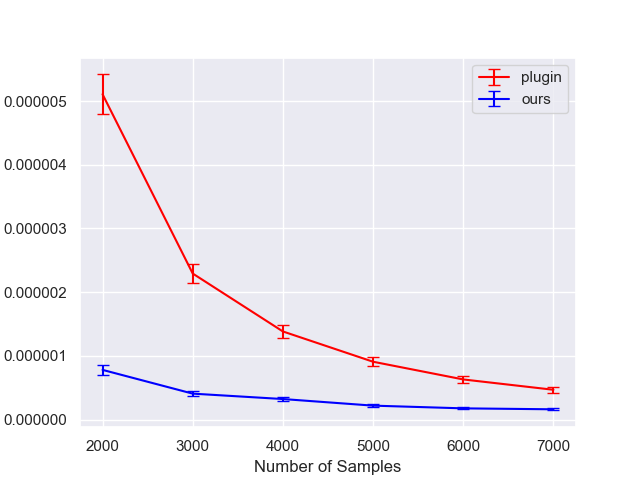
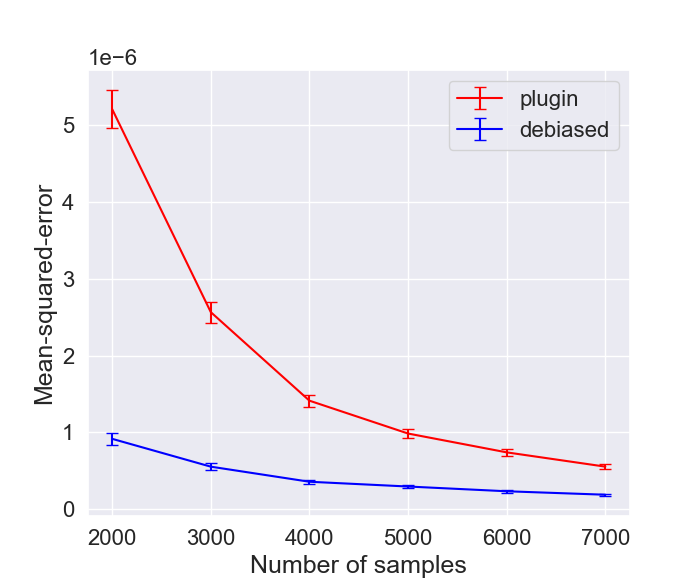
Updates images and proof

diff --git a/appendix_calibrating_models.tex b/appendix_calibrating_models.tex
@@ -4,15 +4,18 @@
 
 \newcommand{\G}[0]{\ensuremath{\mathcal{G}}}
 
-Our analysis of the sample complexity of \ourcal{} requires some assumptions on the function family $\G{}$ that hold for standard methods like Platt scaling, beta calibration, and vector scaling (since vector scaling calibrates each class separately):
+Our analysis of the sample complexity of \ourcal{} requires some assumptions on the function family $\G{}$:
 
 \begin{enumerate}
-\item (Finite bounded parameters). Let $\G{} = \{ g_{\theta} : \mathcal{Z} \to [0, 1] \; | \; \theta \in \mathbb{R}^{d'} \wedge ||\theta||_{\infty} \leq R \}$
+\item (Finite parameters). Let $\G{} = \{ g_{\theta} : \mathcal{Z} \to [0, 1] \; | \; \theta \in A \}$ where $A \subseteq \mathbb{R}^{d'}$ and $A$ is open.
 \item (Injective). For all $g_{\theta} \in \G{}$ we assume $g_{\theta}$ is injective.
-\item (Lipschitz). Suppose that for all $z \in \mbox{supp}(Z)$, $|g_{\theta_1}(z) - g_{\theta_2}(z)| \leq L|\theta_1 - \theta_2|_2$.
+\item (Consistency) Intuitively, consistency means that given infinite data, the estimated parameters should converge to the unique optimal parameters in $A$.
+More formally, suppose $\theta_0 = \argmin_{\theta \in A} \mbox{MSE}(g_{\theta})$.
+Then the parameters $\hat{\theta}_n$ estimated by minimizing the empirical MSE with $n$ samples in step 1 of the algorithm, converges in distribution to $\theta_0$, that is, $\hat{\theta}_n \to_D \theta_0$ as $n \to \infty$. Note that consistency inherently assumes identifiability, that there is a unique minimizer $\theta_0$ in the open set $A$.
+\item (Regularity). We assume that regularity conditions in Theorem 5.23 of~\cite{vaart98asymptotic} hold, which require the loss to be twice differentiable with continuous and non-singular Hessian, and that $g_{\theta}(x)$ is Lipschitz in $\theta$ for all $x$.
 \end{enumerate}
 
-If $\G{}$ satisfies the following assumptions we say $\G{}$ is $(d', L, R)$-compatible. For Platt-scaling $d' = 1$ and $L$ and $R$ are typically small constants.
+We assume that $\G{}$ satisfies these assumptions in the rest of this section.
 
 % We first need to introduce the Bayes optimal recalibrator $\omega^*$, which we compare all other recalibrators to. $\omega^* \circ f$ has calibration error $0$, and also has the minimum mean-squared error among all recalibrators.
 
@@ -33,27 +36,7 @@ Step 2 is where we construct a binning scheme so that each bin has an equal numb
 This is important as well, particularly to ensure we can estimate the calibration error.
 Step 1 is a simple adaptation of a standard result from learning theory.
 
-We first show a generalization result for Step 1 of our approach---recall that step 1 is essentially Platt scaling.
-That is, if $\G{}$ is $(d', L, R)$-compatible and contains $g^* \in \G{}$ with low calibration error, then we show that the empirical risk minimizer $g \in \G{}$ of the mean-squared loss will also quickly converge to low calibration error.
-Intuitively, methods like Platt scaling fit a single parameter to the data so classical learning theory bounds tell us they will converge quickly to their optimal error, at least in mean-squared error.
-We can combine this with a decomposition of the mean-squared error into calibration and refinement, and the injectivity of $g \in \mathcal{G}$, to show they also converge in calibration error.
-
-\begin{lemma}[Convergence of Platt scaling]
-\label{lem:platt_scaling_bound}
-There exists a constant $c$, independent of $d', L, n$ such that with high probability over the recalibration samples $\squaredce(g) \leq \min_{g' \in \G{}}\squaredce(g') + \frac{cLd' \log{R}}{\sqrt{n}}$, where recall that $g \in \G{}$ was selected as the empirical risk minimizer of the mean-squared error loss.
-\end{lemma}
-
-\begin{proof}
-We use the classic decomposition of the mean-squared error into calibration error (also known as reliability) and refinement\footnote{Note that the refinement term can be further decomposed into resolution (also known as sharpness) and irreducible uncertainty.}. For any $g \in \G{}$ we have:
-\[ \mbox{MSE}(g) = \underbrace{\squaredce(g)}_{\mbox{calibration}} + \underbrace{\expect[(\expect[Y \mid g(Z)] - Y)^2]}_{\mbox{refinement}} \]
-Note that the refinement term is constant for all injective $g \in \G{}$, since for injective $g$:
-\[ \expect[(\expect[Y \mid g(Z)] - Y)^2] = \expect[(\expect[Y \mid Z] - Y)^2] \]
-This means that the difference in $\mbox{MSE}$ between any $g$ and $g'$ is precisely the difference in the mean-squared error. From a standard $\epsilon$-cover in the parameter space, or PAC-Bayes argument, we can get a high probability generalization bound on the mean-squared error:
-\[ \mbox{MSE}(g) \leq \mbox{MSE}(g^*) + \frac{cLd' \log{R}}{\sqrt{n}} \]
-This gives us the desired result.
-\end{proof}
-
-Our next lemma will require showing convergence in $\ell_2$ and $\ell_1$ norm in function space, which we define below:
+\textbf{Step 3}: Our proofs will require showing convergence in $\ell_2$ and $\ell_1$ norm in function space, which we define below:
 
 \begin{definition}[Distances between functions]
 Given $f, g : \mathcal{Z} \to [0, 1]$, for the $\ell_2$ norm we define $||f - g||_2^2 = \expect[(f(Z) - g(Z))^2]$ and $||f- g||_2 = \sqrt{||f - g||_2^2}$. For the $\ell_1$ norm we define $||f - g||_1 = \expect[\lvert f(Z) - g(Z)\rvert]$
@@ -110,11 +93,11 @@ Similarly, we can also bound the $\ell_1$-error. Here we also use the fact that 
 By union bound, these hold with probability at least $1 - \delta$, which completes the proof.
 \end{proof}
 
-In our proofs we also required that the binning scheme we constructed was 2-well-balanced.
+\textbf{Step 2}: Recall that we chose our bins so that each bin had an equal proportion of points in the recalibration set. In our proofs we required that this property (approximately) holds in the population as well. The following lemma shows this.
 
 \begin{lemma}[Well-balanced on population]
 \label{lem:well-balanced}
-If $n \geq \Omega(B \log{\frac{B}{\delta}})$ then the binning scheme $\bins{}$ we construct in step 2 of our algorithm is 2-well-balanced.
+There exists a universal constant $c$ such that if $n \geq c \big( B \log{\frac{B}{\delta}} \big)$ then the binning scheme $\bins{}$ we construct in step 2 of our algorithm is 2-well-balanced with probability at least $1 - \delta$.
 \end{lemma}
 
 \begin{proof}
@@ -143,30 +126,56 @@ Since in our case for all $j$, $\hat{P}(I_j) = \frac{1}{B}$, this gives us:
 \[ \frac{1}{2B} \leq P(I_j) \leq \frac{2}{B} \]
 \end{proof}
 
+\textbf{Step 1}: Recall that step 1 essentially applies a scaling method---we fit a small number of parameters to the recalibration data.
+We show that if $\G{}$ contains $g^* \in \G{}$ with low calibration error, then the empirical risk minimizer $g \in \G{}$ of the mean-squared loss will also quickly converge to low calibration error.
+Intuitively, methods like Platt scaling fit a single parameter to the data so standard results in asymptotic statistics tell us they will converge quickly to their optimal error, at least in mean-squared error.
+We can combine this with a decomposition of the mean-squared error into calibration and refinement, and the injectivity of $g \in \mathcal{G}$, to show they also converge quickly in calibration error.
+
+\begin{lemma}[Convergence of Platt scaling]
+\label{lem:platt_scaling_bound}
+Given $\delta$, there exists a constant $c$, such that for all $n$, $\squaredce(g) \leq \min_{g' \in \G{}}\squaredce(g') + \frac{c}{n}$, with probability at least $1 - \delta$.
+% independent of $d', L, n$ such that with high probability over the recalibration samples $\squaredce(g) \leq \min_{g' \in \G{}}\squaredce(g') + \frac{cLd' \log{R}}{\sqrt{n}}$, where recall that $g \in \G{}$ was selected as the empirical risk minimizer of the mean-squared error loss.
+\end{lemma}
+
+\begin{proof}
+We use the classic decomposition of the mean-squared error into calibration error (also known as reliability) and refinement\footnote{Note that the refinement term can be further decomposed into resolution (also known as sharpness) and irreducible uncertainty.}. For any $g \in \G{}$ we have:
+\[ \mbox{MSE}(g) = \underbrace{\squaredce(g)}_{\mbox{calibration}} + \underbrace{\expect[(\expect[Y \mid g(Z)] - Y)^2]}_{\mbox{refinement}} \]
+Note that the refinement term is constant for all injective $g \in \G{}$, since for injective $g$:
+\[ \expect[(\expect[Y \mid g(Z)] - Y)^2] = \expect[(\expect[Y \mid Z] - Y)^2] \]
+This means that the difference in $\mbox{MSE}$ between any $g$ and $g'$ is precisely the difference in the mean-squared error. From a standard $\epsilon$-cover in the parameter space, or PAC-Bayes argument, we can get a high probability generalization bound on the mean-squared error:
+\[ \mbox{MSE}(g) \leq \mbox{MSE}(g^*) + \frac{cLd' \log{R}}{\sqrt{n}} \]
+This gives us the desired result.
+\end{proof}
+
 Finally, we have the tools to prove the main theorem:
 
 \begin{proof}[Proof of Theorem~\ref{thm:final-calib}]
 The proof pieces together Lemmas~\ref{lem:platt_scaling_bound},~\ref{thm:empirical-binning},~\ref{lem:well-balanced} and Proposition~\ref{prop:bin_low_bound}.
 
-If $n = \Theta(\frac{(L'd'\log{R})^2}{\epsilon^2})$, from Lemma~\ref{lem:platt_scaling_bound}, step 1 of the variance-reduced calibration algorithm gives us $g$ with $\squaredce(g) \leq c_0^2 \epsilon^2$ for constant $c_0 > 1$.
+For any fixed $c_1 > 0$, there exists $c_1'$ such that if $n \geq c_1'\big(\frac{1}{\epsilon^2}\big)$, from Lemma~\ref{lem:platt_scaling_bound}, step 1 of the variance-reduced calibration algorithm gives us $g$ with $\squaredce(g) \leq \min_{g' \in \G{}}\squaredce(g') + c_1 \epsilon^2$, with probability at least $1 - \frac{\delta}{3}$.
 
-Next if $n = \Theta(B \log{\frac{B}{\delta}})$, from Lemma~\ref{lem:well-balanced}, step 2 chooses a 2-well-balanced binning scheme $\bins{}$.
+Next, for universal constant $c_2$, if $n \geq c_2(B \log{\frac{B}{\delta}})$, from Lemma~\ref{lem:well-balanced}, step 2 chooses a 2-well-balanced binning scheme $\bins{}$ with probability at least $1 - \frac{\delta}{3}$.
 
-From Proposition~\ref{prop:bin_low_bound}, $\ltwoce(g_{\bins{}}) \leq \ltwoce(g) \leq c_0 \epsilon$. Then from Lemma~\ref{thm:empirical-binning}, if $n = \frac{1}{\epsilon^2} \log{\frac{B}{\delta}}$, step 3 gives us $\hat{g_{\bins{}}}$ with $||\hat{g_{\bins{}}} - g_{\bins{}}||_2 \leq c_1 \epsilon$ for constant $c_1 > 0$. We want to say that since $\hat{g_{\bins{}}}$ is close to $g_{\bins{}}$ and $g_{\bins{}}$ has low calibration error, this must mean that $\hat{g_{\bins{}}}$ has low calibration error.
+From Proposition~\ref{prop:bin_low_bound}, $\squaredce(g_{\bins{}}) \leq \squaredce(g) \leq \min_{g' \in \G{}}\squaredce(g') + c_1 \epsilon^2$. Then from Lemma~\ref{thm:empirical-binning}, for any $c_3 > 0$, there exists $c_3'$ such that if $n \geq c_3'\big(\frac{1}{\epsilon^2} \log{\frac{B}{\delta}}\big)$, step 3 gives us $\hat{g_{\bins{}}}$ with $||\hat{g_{\bins{}}} - g_{\bins{}}||_2 \leq c_3 \epsilon$ with probability at least $1 - \frac{\delta}{3}$. We want to say that since $\hat{g_{\bins{}}}$ is close to $g_{\bins{}}$ and $g_{\bins{}}$ has low calibration error, this must mean that $\hat{g_{\bins{}}}$ has low calibration error.
 
 To do this we represent the $\ell_2$ calibration error of any $g$ as the distance between $g$ and a perfectly recalibrated version of $g$. That is, we define the perfectly recalibrated version of $g$ as:
 \[ \omega(g)(z) = \expect[ Y \mid g(Z) = z ] \]
 Then for any $g$, we can write $\ltwoce(g) = ||g - \omega(g)||_2$. By triangle inequality on the $\ell_2$ norm on functions, we have:
-\[ ||\hat{g_{\bins{}}} - \omega(g_{\bins{}})||_2 \leq ||\hat{g_{\bins{}}} - g_{\bins{}}||_2 + ||g_{\bins{}} - \omega(g_{\bins{}})||_2 \leq (c_1 + c_0)\epsilon \]
+\[ ||\hat{g_{\bins{}}} - \omega(g_{\bins{}})||_2 \leq ||\hat{g_{\bins{}}} - g_{\bins{}}||_2 + ||g_{\bins{}} - \omega(g_{\bins{}})||_2 \leq c_3 \epsilon + \sqrt{\min_{g' \in \G{}}\squaredce(g') + c_1 \epsilon^2} \]
+
 Now the LHS is not quite the $\ell_2$ calibration error of $\hat{g_{\bins{}}}$, which is $||\hat{g_{\bins{}}} - \omega(\hat{g_{\bins{}}})||_2$~\footnote{This is a very technical point, so at a first pass the reader may skip the following discussion.}.
 However, since $g$ is injective, $g_{\bins{}}$ takes on a different value for each interval $I_j \in \bins{}$.
 If $\hat{g_{\bins{}}}$ also takes on a different value for each interval $I_j \in \bins{}$, then we can see that $\omega(g_{\bins{}}) = \omega(\hat{g_{\bins{}}})$.
 If not, $\omega(\hat{g_{\bins{}}})$ can only merge some of the intervals of $\omega(g_{\bins{}})$, and by Jensen's we can show:
-\[ ||\hat{g_{\bins{}}} - \omega(\hat{g_{\bins{}}})||_2 \leq ||\hat{g_{\bins{}}} - \omega(g_{\bins{}})||_2 \leq (c_1 + c_0)\epsilon \]
-An alternative way to get this is to add infinitesimal noise to $\hat{g_{\bins{}}}$ for each interval $I_j$, in which case we get $\omega(g_{\bins{}}) = \omega(\hat{g_{\bins{}}})$.
+\[ ||\hat{g_{\bins{}}} - \omega(\hat{g_{\bins{}}})||_2 \leq ||\hat{g_{\bins{}}} - \omega(g_{\bins{}})||_2 \leq c_3 \epsilon + \sqrt{\min_{g' \in \G{}}\squaredce(g') + c_1 \epsilon^2} \]
+An alternative way to see this is to add infinitesimal noise to $\hat{g_{\bins{}}}$ for each interval $I_j$, in which case we get $\omega(g_{\bins{}}) = \omega(\hat{g_{\bins{}}})$.
 Finally we convert back from the $\ltwoce$ to $\squaredce$:
-\[ \squaredce(\hat{g_{\bins{}}}) = ||\hat{g_{\bins{}}} - \omega(\hat{g_{\bins{}}})||_2^2 \leq (c_1 + c_0)^2 \epsilon^2 \]
-By e.g. choosing $c_0 = 1.1$ and $c_1 = 0.1$ the LHS becomes $\leq 2\epsilon^2$, which completes the proof.
+\[ \squaredce(\hat{g_{\bins{}}}) = ||\hat{g_{\bins{}}} - \omega(\hat{g_{\bins{}}})||_2^2 \leq \min_{g' \in \G{}}\squaredce(g') + (c_3^2 + c_1) \epsilon^2 + 2\sqrt{(c_3^2 \epsilon^2) \big(\min_{g' \in \G{}}\squaredce(g') + c_1 \epsilon^2\big)} \]
+By the AM-GM inequality, we have:
+\[ 2\sqrt{(c_3^2 \epsilon^2) \big(\min_{g' \in \G{}}\squaredce(g') + c_1 \epsilon^2\big)} \leq (c_3^2 + c_1) \epsilon^2 + \min_{g' \in \G{}}\squaredce(g') \]
+Combining these, we get:
+\[ \squaredce(\hat{g_{\bins{}}}) \leq 2 \min_{g' \in \G{}}\squaredce(g') + 2(c_3^2 + c_1) \epsilon^2 \]
+By e.g. choosing $c_1 = 0.1$ and $c_3 = 0.1$, we have $2(c_3^2 + c_1) \leq 1$, which gives us the desired result. By union bound over each step, we have this with probability at least $1 - \delta$.
 
 
 % From proposition Y, $\twoce(g_{\bins{}}) \leq \ltwoce(g)$

diff --git a/calibrating_models.tex b/calibrating_models.tex
@@ -22,11 +22,11 @@ Then we set $\hat{g_{\mathcal{B}}}(z) = \hat{\mu}[\beta(g(z))]$---that is we sim
 
 \subsection{Analysis}
 
-We now show that the variance-reduced calibrator requires $O(B + 1/\epsilon^2)$ samples to calibrate, and in Section~\ref{sec:verifying_calibration} we show that we can efficiently measure its calibration error. For the main theorem, we make some standard regularity assumptions on $\mathcal{G}$ (Lipschitz, injectivity, bounded parameters) which we formalize in Appendix~\ref{sec:calibrating_models_appendix}. These hold for Platt scaling, Beta calibration~\cite{kull2017sigmoids}, and vector scaling. Our result is a generalization result---we show that if $\mathcal{G}$ contains some $g^*$ with low calibration error, then our method will quickly find $\hat{g}_{\mathcal{B}}$ with low calibration error:
+We now show that the variance-reduced calibrator requires $O(B + 1/\epsilon^2)$ samples to calibrate, and in Section~\ref{sec:verifying_calibration} we show that we can efficiently measure its calibration error. For the main theorem, we make some standard regularity assumptions on $\mathcal{G}$ (Lipschitz, injectivity, bounded parameters) which we formalize in Appendix~\ref{sec:calibrating_models_appendix}. Our result is a generalization result---we show that if $\mathcal{G}$ contains some $g^*$ with low calibration error, then our method will quickly find $\hat{g}_{\mathcal{B}}$ with low calibration error:
 
 \begin{restatable}[Calibration bound]{theorem}{finalCalib}
 \label{thm:final-calib}
-Assume regularity conditions on $\mathcal{G}$ (Lipschitz, injective, and all conditions in Theorem 5.23 in~\cite{vaart98asymptotic}) Given $\delta \in (0, 1)$, there is a constant $c$ such that \emph{for all} $B, \epsilon$, with $n \geq c \Big(B\log{B} + \frac{\log{B}}{\epsilon^2}\Big)$ samples, the variance-reduced algorithm finds $\hat{g}_{\mathcal{B}}$ with $\squaredce(\hat{g}_{\mathcal{B}}) \leq \min_{g \in \mathcal{G}}\squaredce(g) + \epsilon^2$, with probability $\geq 1 - \delta$.
+Assume regularity conditions on $\mathcal{G}$ (finite parameters, injectivity, Lipschitz-continuity, consistency, twice differentiability) Given $\delta \in (0, 1)$, there is a constant $c$ such that \emph{for all} $B, \epsilon$, with $n \geq c \Big(B\log{B} + \frac{\log{B}}{\epsilon^2}\Big)$ samples, the variance-reduced algorithm finds $\hat{g}_{\mathcal{B}}$ with $\squaredce(\hat{g}_{\mathcal{B}}) \leq 2\min_{g \in \mathcal{G}}\squaredce(g) + \epsilon^2$, with probability $\geq 1 - \delta$.
 % Suppose that $\min_{g \in \mathcal{G}}\lsquared\mbox{-CE}(g) \leq \epsilon^2$.
 %   With $n = \widetilde{O}(B + \frac{d'}{\epsilon^2})$ samples, where $\widetilde{O}$ hides log factors, the variance-reduced calibration algorithm finds $\hat{g}_{\mathcal{B}}$ with $\lsquared\mbox{-CE}(\hat{g}_{\mathcal{B}}) \leq 2 \epsilon^2$. Note that $d'$ is the number of parameters which is $1$ for Platt scaling.
 \end{restatable}

diff --git a/verifying_calibration.tex b/verifying_calibration.tex
@@ -74,7 +74,7 @@ These bounds suggest that estimating calibration error can be the bottleneck, un
   \centering
      \begin{subfigure}[b]{0.48\textwidth}
          \centering
-         \includegraphics[width=\textwidth]{images/mse_estimators_10_bins.png}
+         \includegraphics[width=\textwidth]{images/mse_estimator_10_bins.png}
          \caption{$B = 10$
          \pl{s/ours/canceling}
          \pl{Number of samples of what - relate to notation in text}
@@ -92,7 +92,7 @@ These bounds suggest that estimating calibration error can be the bottleneck, un
          \label{fig:ce_vs_bins_verifying}
      \end{subfigure}
   \caption{
-    Mean-squared errors of debiased (labeled as `ours') and plugin estimators on a recalibrated VGG16 model on CIFAR-10 with $90\%$ confidence intervals (lower values better). The debiased estimator is closer to the ground truth, which corresponds to $0$ on the y-axis, especially when $B$ is large and/or the number of samples $n$ is small.
+    Mean-squared errors of debiased (labeled as `ours') and plugin estimators on a recalibrated VGG16 model on CIFAR-10 with $90\%$ confidence intervals (lower values better). The debiased estimator is closer to the ground truth, which corresponds to $0$ on the y-axis, especially when $B$ is large and/or the number of samples used by the estimator, $n$, is small.
 }
   \label{fig:mse_estimators_bins}
 \end{figure}

diff --git a/main.tex b/main.tex
@@ -24,13 +24,13 @@
 \newtheorem{corollary}[theorem]{Corollary}
 
 
-% \newcommand{\pl}[1]{}
-% \newcommand{\tm}[1]{}
-% \newcommand{\ak}[1]{}
+\newcommand{\pl}[1]{}
+\newcommand{\tm}[1]{}
+\newcommand{\ak}[1]{}
 
-\newcommand{\pl}[1]{\textcolor{red}{[PL: #1]}}
-\newcommand{\tm}[1]{\textcolor{blue}{[TM: #1]}}
-\newcommand{\ak}[1]{\textcolor{brown}{[AK: #1]}}
+% \newcommand{\pl}[1]{\textcolor{red}{[PL: #1]}}
+% \newcommand{\tm}[1]{\textcolor{blue}{[TM: #1]}}
+% \newcommand{\ak}[1]{\textcolor{brown}{[AK: #1]}}
 
 \newcommand{\expect}[0]{\ensuremath{\mathbb{E}}}
 \newcommand{\prob}[0]{\ensuremath{\mathbb{P}}}

diff --git a/appendix_calibrating_models_experiments.tex b/appendix_calibrating_models_experiments.tex
@@ -1,5 +1,5 @@
 \newpage
-\section{Details and ablations for section~\ref{sec:calibrating_models}}
+\section{Experimental details and ablations for section~\ref{sec:calibrating_models}}
 \label{sec:calibrating_models_appendix_experiments}
 
 We begin by giving more experimental details. Note that the code is available in the supplementary folder for completeness.
